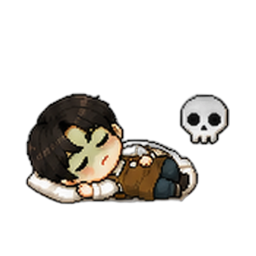
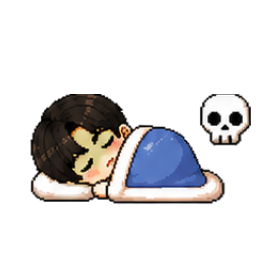
Fix restart age/sprite regression, extend sleep to 9am
- Fix _restart() not triggering onEvolve, leaving an adult character
  visually stuck on adult sprites after restarting (age/stage were
  correctly reset internally, just never told GameCanvas to reload
  kid images).
- Fix a regression from the created_at anti-cheat lock: restarting
  after death legitimately resets age to 0, but the lock forced the
  old (pre-restart) created_at back, causing age to snap back to the
  old value on next load. Now created_at resets along with age=0,
  while non-zero age claims still get locked to the existing
  created_at (cheat prevention intact - verified via live test).
- Admin's debug STAGE button (forces an age/evolution preview) was
  also being blocked by the same age-vs-created_at plausibility check;
  added an explicit skip for admin-only requests.
- Sleep window 1am-8am -> 1am-9am.

Changed region(s): [[0.0938, 0.3438, 1.0, 0.8125]]

diff --git a/src/lib/game/validateSave.ts b/src/lib/game/validateSave.ts
@@ -34,7 +34,10 @@ function isPlausibleTimestamp(v: unknown, now: number): v is number {
 // created_at을 이렇게 고정해도, age 필드 자체를 그거랑 무관하게 직접 조작해서 보내면
 // 여전히 진화/체중 상한을 우회할 수 있으므로, age가 "실제 경과 시간으로 가능한 최대치"를
 // 넘지 않는지도 같이 검증한다.
-export function validateSaveData(input: unknown, existingCreatedAt?: number | null): SaveData | null {
+//
+// skipAgeLock: 관리자 계정의 디버그 STAGE 버튼처럼, 의도적으로 나이를 앞당겨 미리보기
+// 하는 기능까지 이 검증에 막히면 안 되므로, 신뢰된 admin 요청에 한해 이 잠금을 건너뜀
+export function validateSaveData(input: unknown, existingCreatedAt?: number | null, skipAgeLock = false): SaveData | null {
   if (!input || typeof input !== 'object') return null
   const d = input as Record<string, unknown>
   const now = Date.now() / 1000
@@ -68,16 +71,27 @@ export function validateSaveData(input: unknown, existingCreatedAt?: number | nu
 
   if (d.created_at !== null && !isPlausibleTimestamp(d.created_at, now)) return null
 
-  // created_at 확정: 기존 값이 있으면 그걸로 강제 고정(클라이언트가 보낸 값 무시),
-  // 없으면(최초 저장) 이번에 보낸 값을 그대로 확정값으로 채택
-  const createdAt = existingCreatedAt !== undefined ? existingCreatedAt : (d.created_at as number | null)
-  d.created_at = createdAt
+  if (skipAgeLock) {
+    // admin 디버그 도구는 나이/생성시각을 의도적으로 조작해 미리보기 하므로 그대로 신뢰
+    d.created_at = (d.created_at as number | null) ?? existingCreatedAt ?? null
+  } else {
+    // created_at 확정: age가 0으로 리셋되는 경우(최초 생성 또는 재시작)엔 클라이언트가
+    // 보낸 값(=지금 시각)을 그대로 신뢰함 — age=0은 어차피 최솟값이라 조작해도 득이 없음.
+    // age가 0보다 큰데 기존 세이브가 있으면 그 created_at으로 강제 고정(클라이언트 값 무시) —
+    // 안 그러면 created_at을 조작해서 나이를 부풀릴 수 있음.
+    // (예전엔 age=0이어도 무조건 기존 값으로 고정해버려서, 재시작해도 created_at이 안 바뀌고
+    //  다음 로드 때 나이가 다시 예전 값으로 튀어오르는 버그가 있었음)
+    const createdAt = (s.age === 0 || existingCreatedAt === undefined)
+      ? (d.created_at as number | null)
+      : existingCreatedAt
+    d.created_at = createdAt
 
-  // age는 확정된 created_at 기준으로 실제 경과 가능한 최대치를 넘을 수 없음 —
-  // 안 그러면 created_at을 고정해도 age만 직접 조작해서 진화를 앞당길 수 있었음
-  if (createdAt != null) {
-    const maxPlausibleAge = Math.floor((now - createdAt) / 86400)
-    if ((s.age as number) > maxPlausibleAge) return null
+    // age는 확정된 created_at 기준으로 실제 경과 가능한 최대치를 넘을 수 없음 —
+    // 안 그러면 created_at을 고정해도 age만 직접 조작해서 진화를 앞당길 수 있었음
+    if (createdAt != null) {
+      const maxPlausibleAge = Math.floor((now - createdAt) / 86400)
+      if ((s.age as number) > maxPlausibleAge) return null
+    }
   }
 
   const poopTimers = d.poop_timers

diff --git a/src/lib/game/engine.ts b/src/lib/game/engine.ts
@@ -13,9 +13,9 @@ const POOP_MIN      = 15 * 60
 const POOP_MAX      = 30 * 60
 const WALK_MIN      = 5
 const WALK_MAX      = 10
-// 심야 시간대(각자 기기의 로컬 시간 기준 — 나라별로 자동으로 맞음) 새벽 1시~아침 8시
+// 심야 시간대(각자 기기의 로컬 시간 기준 — 나라별로 자동으로 맞음) 새벽 1시~오전 9시
 export const NIGHT_START_HOUR = 1
-export const NIGHT_END_HOUR   = 8
+export const NIGHT_END_HOUR   = 9
 
 export class GameEngine {
   characterType: string
@@ -282,7 +282,7 @@ export class GameEngine {
   }
 
   // 배고픔/행복 감소를 "심야 시간대를 제외한 활성 시간" 기준으로 계산 — 자는 동안(로컬
-  // 새벽 1시~7시)은 시계가 멈춘 것처럼 취급됨. lastSync는 매 호출마다 now로 갱신하고,
+  // 새벽 1시~오전 9시)은 시계가 멈춘 것처럼 취급됨. lastSync는 매 호출마다 now로 갱신하고,
   // 아직 한 tick(interval)에 못 미치는 자투리 활성 시간은 accum에 그대로 이월해서 다음
   // 호출에 합산 — 그래서 "언제 tick이 발생했는지"를 시각으로 되짚을 필요가 없어짐.
   // 처음 0을 찍는 순간에는, 정확히 몇 번째 tick에서 0이 됐는지를 활성 시간 기준으로
@@ -510,6 +510,10 @@ export class GameEngine {
   }
 
   private _restart(): void {
+    // 죽기 전에 성인이었으면 스프라이트를 다시 키드로 로드해야 함 — state.stage만
+    // 0으로 되돌리고 onEvolve를 안 불러서, 나이/스테이지는 정확히 리셋됐는데도 화면엔
+    // 계속 성인 그림이 남아있는 버그가 있었음
+    const wasAdult = this.state.stage !== 0
     this.debugAnimActive = false
     this.stats = { hunger: 4, happiness: 4, affinity: 0, age: 0, weight: BASE_WEIGHT, sick: false, poop_count: 0, alive: true }
     const now = Date.now() / 1000
@@ -537,6 +541,7 @@ export class GameEngine {
     this.idleChatInterval = rand(IDLE_CHAT_MIN, IDLE_CHAT_MAX)
     this.greeted = false
     this.anim.set('idle')
+    if (wasAdult) this.onEvolve?.(0)
     this.onSave?.(this.getSaveData())
   }
 }

diff --git a/src/app/api/game/[character]/route.ts b/src/app/api/game/[character]/route.ts
@@ -65,9 +65,13 @@ export async function POST(req: NextRequest, { params }: Params) {
     .maybeSingle()
   const existingCreatedAt = existing ? (existing.save_data as { created_at: number | null }).created_at : undefined
 
+  // admin 계정의 디버그 STAGE 버튼은 나이를 의도적으로 앞당겨 진화를 미리보기 하므로,
+  // 그 계정만 나이 잠금 검증에서 예외로 둠 (다른 검증은 admin도 동일하게 적용)
+  const isAdmin = (user.user_metadata?.username as string | undefined) === 'admin'
+
   // 스탯 값이 게임 로직상 나올 수 있는 범위인지 검증 — 안 그러면 로그인한 본인 계정으로
   // curl을 직접 쳐서 배고픔/친밀도/나이/체중/생존여부 등을 마음대로 조작할 수 있었음
-  const validated = validateSaveData(body.save, existingCreatedAt)
+  const validated = validateSaveData(body.save, existingCreatedAt, isAdmin)
   if (!validated)
     return NextResponse.json({ error: 'Invalid save data' }, { status: 400 })
 

diff --git a/GAME_STATES.md b/GAME_STATES.md
@@ -102,7 +102,9 @@
 
 배고픔/행복은 **앱을 안 켜놓은 시간도 실제 경과 시간 기준으로 정확히 반영**됩니다 (나이 계산과 동일한 방식). 며칠 만에 다시 켜면 그동안 지났어야 할 만큼 한번에 감소하고, 0에 처음 도달한 시점도 역산해서 "그동안 이미 0이었던 시간"까지 인정됩니다 — 즉 앱을 안 켜고 있어도 위 사망 유예시간은 실제로 흘러가고, 다시 켰을 때 이미 죽어있을 수도 있습니다. (예전엔 탭이 닫혀있는 동안 감소/사망 타이머가 완전히 멈췄었음 — 수정됨)
 
-가운데(S) 버튼으로 재시작 가능 (모든 스탯/친밀도/나이 초기화, `created_at`도 현재 시각으로 리셋).
+가운데(S) 버튼으로 재시작 가능 (모든 스탯/친밀도/나이 초기화, `created_at`도 현재 시각으로 리셋). 죽기 전에 성인이었으면 스프라이트도 키드로 다시 로드됩니다. (예전엔 나이/스테이지는 정확히 0으로 리셋되는데 이미지 리로드 신호가 안 나가서, 화면엔 계속 성인 그림이 남아있는 버그가 있었음 — 수정됨)
+
+서버 저장 검증(`validateSaveData`)은 `age`가 `created_at` 기준 실제 경과 가능한 최대치를 넘으면 거부합니다(치트 방지). 단 재시작처럼 `age`가 0으로 리셋되는 경우엔 `created_at`도 같이 새 값으로 갱신되도록 예외 처리되어 있고(안 그러면 재시작해도 다음 로드 때 나이가 도로 튀어오름), admin 계정은 디버그 STAGE 버튼으로 나이를 미리 당겨볼 수 있어야 해서 이 잠금 자체를 건너뜁니다.
 
 ## 6. 스탯 자연 감소
 
@@ -113,8 +115,8 @@
 
 ### 심야 시간대(수면)
 
-- **각자 기기의 로컬 시간 기준** 새벽 1시~아침 8시(`NIGHT_START_HOUR/NIGHT_END_HOUR`)에는 sleep 애니메이션으로 고정됩니다. 서버 시간이 아니라 브라우저 로컬 시간을 쓰기 때문에 나라(타임존)별로 자동으로 맞게 적용됩니다.
-- 이 시간대엔 **배고픔/행복 감소가 완전히 멈춥니다** — 마치 시계가 멈춘 것처럼 취급되고, 아침 8시가 지나야 다시 흐르기 시작함.
+- **각자 기기의 로컬 시간 기준** 새벽 1시~오전 9시(`NIGHT_START_HOUR/NIGHT_END_HOUR`)에는 sleep 애니메이션으로 고정됩니다. 서버 시간이 아니라 브라우저 로컬 시간을 쓰기 때문에 나라(타임존)별로 자동으로 맞게 적용됩니다.
+- 이 시간대엔 **배고픔/행복 감소가 완전히 멈춥니다** — 마치 시계가 멈춘 것처럼 취급되고, 오전 9시가 지나야 다시 흐르기 시작함.
 - 오프라인으로 며칠 지났다가 다시 켜도, 그 사이 몇 번의 밤을 거쳤는지까지 정확히 계산해서 밤 시간은 전부 제외하고 감소시킵니다.
 - 우선순위: **아픔(sick) > 배고픔/행복 0(sad) > 심야(sleep)** — 위급한 상태는 자는 시간에도 그대로 표시됩니다.
 - 친밀도 감소·사망 유예시간(아픔/배고픔 0/행복 0이 지속된 시간)은 이 심야 정지의 영향을 받지 않고 평소처럼 흘러갑니다(범위를 배고픔/행복 자연 감소로만 한정함).
